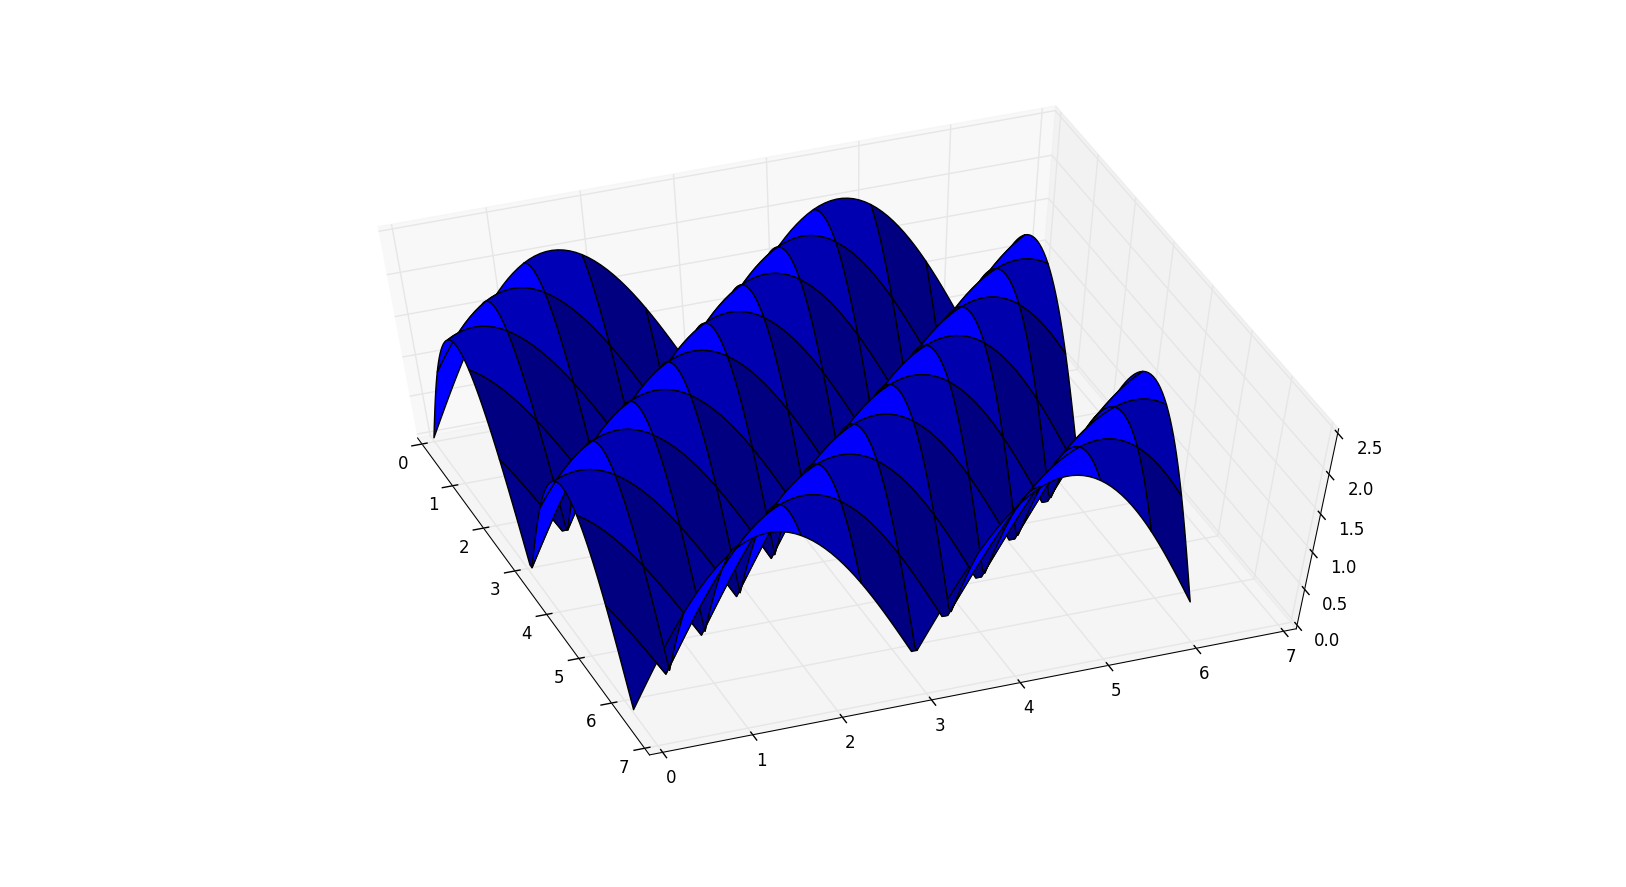
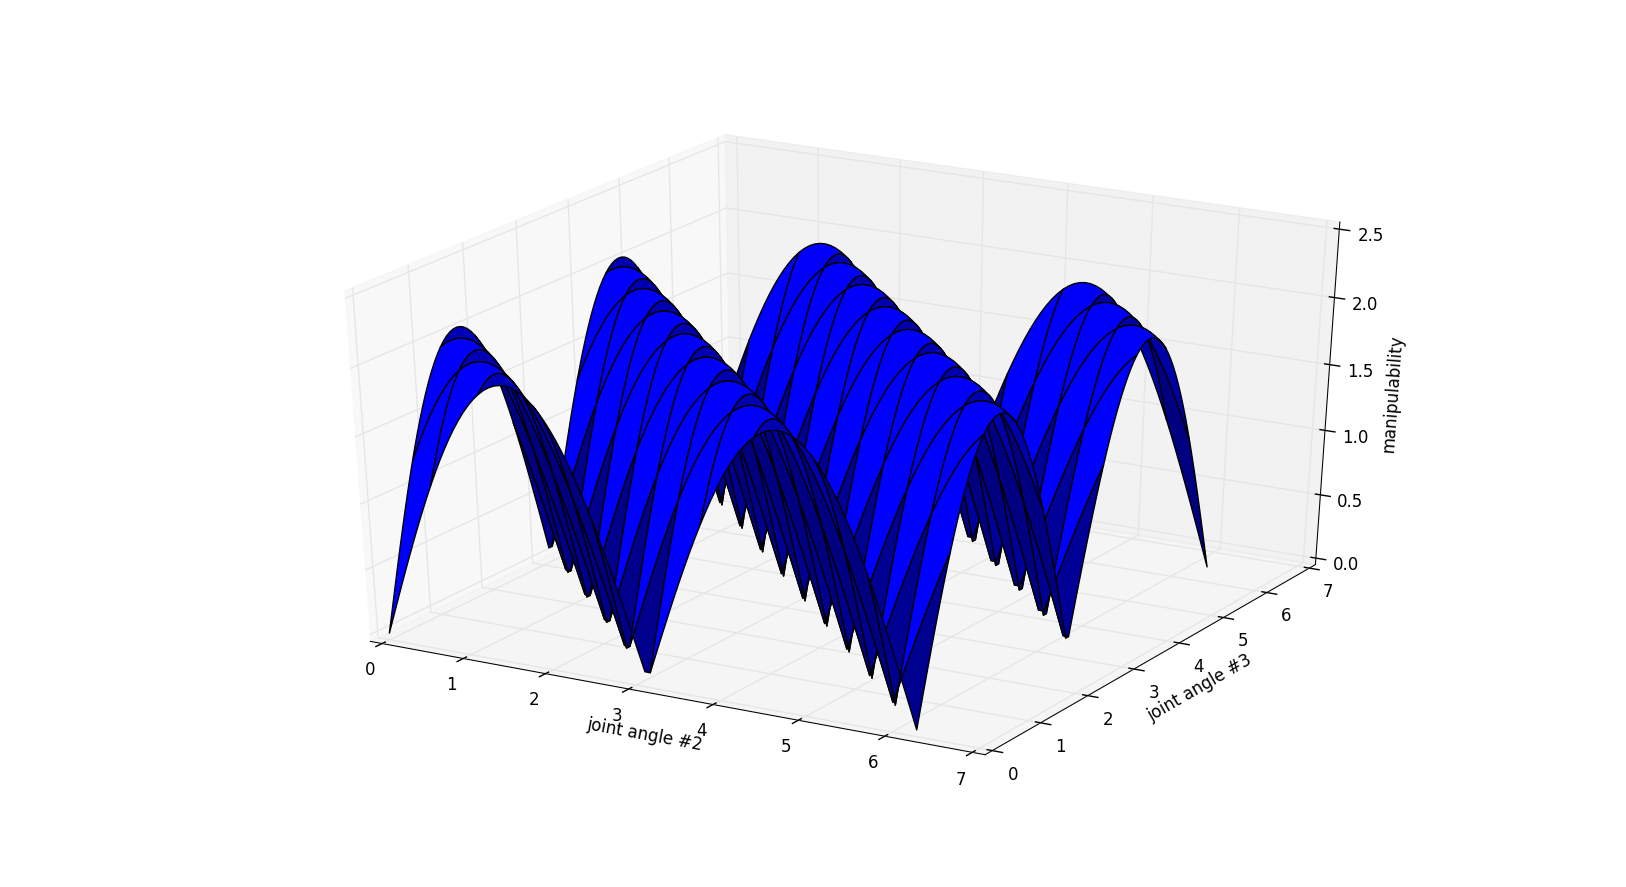
update manipulability graphs

diff --git a/on progress/manipulability.py b/on progress/manipulability.py
@@ -178,6 +178,8 @@ def vary_t2():
         m_t2.append(man)
     plt.figure(1)   
     plt.ylim(float(min(m_t2))-0.1,float(max(m_t2))+0.1)
+    plt.ylabel('manipulability')
+    plt.xlabel('joint angle #2')
     plt.plot(t2_list,m_t2)
     plt.show()  
 
@@ -194,6 +196,8 @@ def vary_t3():
         m_t3.append(man)
     plt.figure(1)   
     plt.ylim(float(min(m_t3))-0.1,float(max(m_t3))+0.1)
+    plt.ylabel('manipulability')
+    plt.xlabel('joint angle #3')
     plt.plot(t3_list,m_t3)
     plt.show()
 #=========================    
@@ -231,15 +235,15 @@ def vary_t2t3():
     fig = plt.figure()
     ax = fig.gca(projection='3d')  
     ax.plot_surface(t2_list, t3_list, man_list, color='b')
-    ax.set_xlabel('t2')
-    ax.set_ylabel('t3')
+    ax.set_xlabel('joint angle #2')
+    ax.set_ylabel('joint angle #3')
     ax.set_zlabel('manipulability')
     plt.show()
 #********************************************************************************************************************************#
 #vary_t2()
-vary_t3()
+#vary_t3()
 #vary_t2t3()
-#vary_t2t3()
+vary_t2t3()
 
 
 #begin=time.time()
